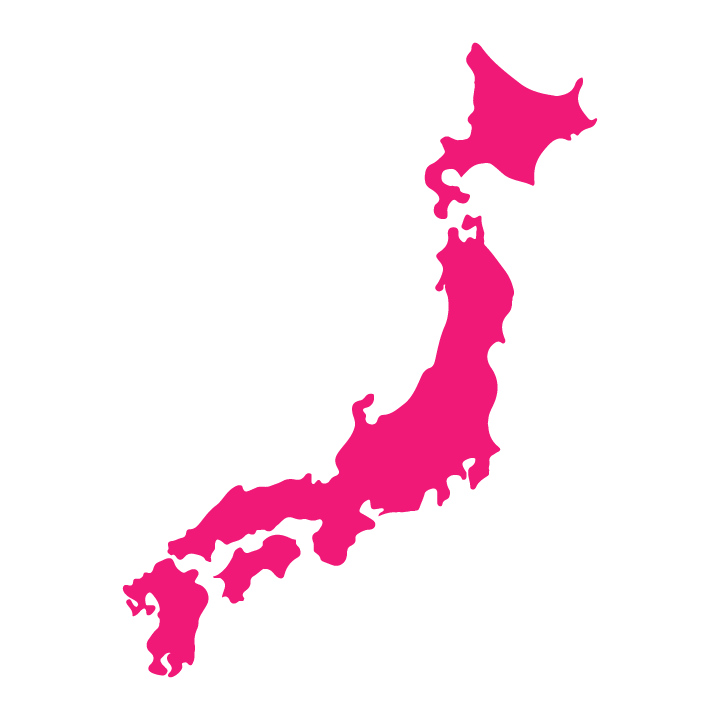
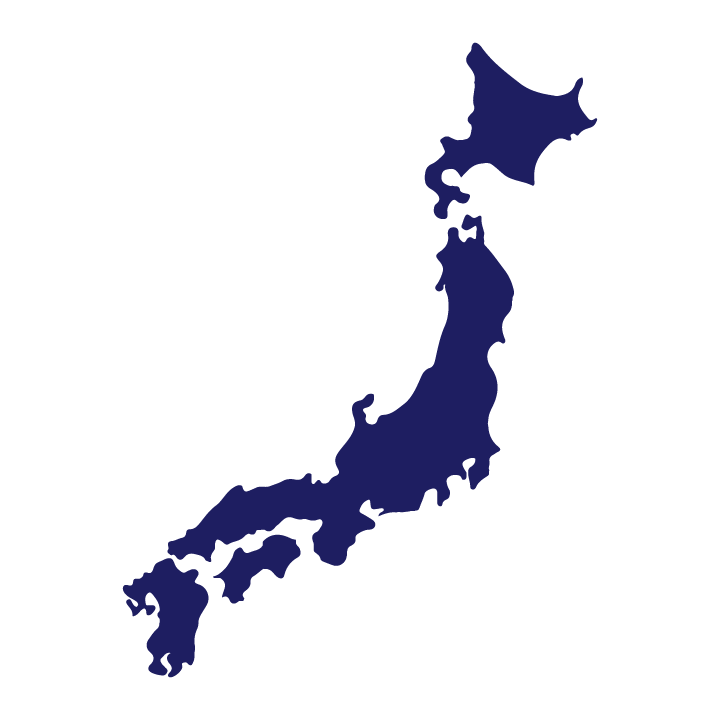
added colours and shop by region map animations

Changed region(s): [[0.1528, 0.0611, 0.825, 0.9472]]

diff --git a/src/components/sections/ShopByRegion.client.jsx b/src/components/sections/ShopByRegion.client.jsx
@@ -8,10 +8,10 @@ export function ShopByRegion() {
     // <Section>
     <section className="flex flex-col gap-8 md:flex-row">
       <div className="md:w-1/2 flex flex-col justify-center">
-        <h2 className="text-center text-xl font-bold mb-8 md:text-4xl md:mb-12">
+        <h2 className="text-center text-xl text-garden-cream font-bold mb-8 md:text-4xl md:mb-12">
           Shop by Region
         </h2>
-        <p className="text-sm leading-7 mb-4">
+        <p className="text-sm text-garden-cream leading-7 mb-4">
           Japan is made up of four main islands and over 6,800 smaller islands.
           The four main islands are Hokkaido, Honshu, Shikoku, and Kyushu. Each
           of these islands has its own distinct regions and prefectures, which
@@ -19,46 +19,48 @@ export function ShopByRegion() {
           include Tokyo, which is the capital and largest city, as well as other
           major cities like Osaka and Yokohama.
         </p>
-        <p className="text-sm leading-7 mb-4">
+        <p className="text-sm text-garden-cream leading-7 mb-4">
           Click on the map to shop by region.
         </p>
       </div>
-      <div className="relative shrink-0 md:w-1/2 flex align-middle">
-        <Image
-          className="cursor-pointer w-full"
-          src={map}
-          height={720}
-          width={720}
-          alt="interactive map of Japan"
-        />
-        <Link to="/regions/hokkaido">
-          <div className=" group cursor-pointer rounded-full bg-blue-400 w-3 h-3 absolute top-[16%] left-[69%] hover:bg-white">
-            <span className="absolute -top-1 left-[1.125rem] text-sm font-bold invisible group-hover:visible">
-              Hokkaido
-            </span>
-          </div>
-        </Link>
-        <Link to="/regions/gifu">
-          <div className=" group cursor-pointer rounded-full bg-blue-400 w-3 h-3 absolute top-[62.5%] left-[49%] hover:bg-white">
-            <span className="absolute -top-1 left-[1.125rem] text-sm font-bold invisible group-hover:visible">
-              Gifu
-            </span>
-          </div>
-        </Link>
-        <Link to="/regions/hiroshima">
-          <div className=" group cursor-pointer rounded-full bg-blue-400 w-3 h-3 absolute top-[72%] left-[28.5%] hover:bg-white">
-            <span className="absolute -top-1 left-[1.125rem] text-sm font-bold invisible group-hover:visible">
-              Hiroshima
-            </span>
-          </div>
-        </Link>
-        <Link to="/regions/aomori">
-          <div className=" group cursor-pointer rounded-full bg-blue-400 w-3 h-3 absolute top-[33%] left-[63%] hover:bg-white">
-            <span className="absolute -top-1 left-[1.125rem] text-sm font-bold invisible group-hover:visible">
-              Aomori
-            </span>
-          </div>
-        </Link>
+      <div className="shrink-0 md:w-1/2 flex flex-col justify-center">
+        <div className="relative">
+          <Image
+            className="w-full object-contain"
+            src={map}
+            height={720}
+            width={720}
+            alt="interactive map of Japan"
+          />
+          <Link to="/regions/hokkaido">
+            <div className=" group cursor-pointer rounded-full bg-garden-rose w-3 h-3 absolute top-[16%] left-[69%] hover:bg-garden-cream ease-in-out duration-200">
+              <span className="absolute -top-1 left-[1.125rem] text-sm text-garden-cream font-bold invisible opacity-0 -translate-x-1/4 group-hover:visible group-hover:opacity-100  group-hover:translate-x-0 duration-300 ">
+                Hokkaido
+              </span>
+            </div>
+          </Link>
+          <Link to="/regions/gifu">
+            <div className=" group cursor-pointer rounded-full bg-garden-rose w-3 h-3 absolute top-[62.5%] left-[49%] hover:bg-garden-cream ease-in-out duration-200">
+              <span className="absolute -top-1 left-[1.125rem] text-sm  text-garden-cream font-bold invisible opacity-0 -translate-x-1/4 group-hover:visible group-hover:opacity-100  group-hover:translate-x-0 duration-300 ">
+                Gifu
+              </span>
+            </div>
+          </Link>
+          <Link to="/regions/hiroshima">
+            <div className=" group cursor-pointer rounded-full bg-garden-rose w-3 h-3 absolute top-[72%] left-[28.5%] hover:bg-garden-cream ease-in-out duration-200">
+              <span className="absolute -top-1 left-[1.125rem] text-sm text-garden-cream font-bold invisible opacity-0 -translate-x-1/4 group-hover:visible group-hover:opacity-100  group-hover:translate-x-0 duration-300 ">
+                Hiroshima
+              </span>
+            </div>
+          </Link>
+          <Link to="/regions/aomori">
+            <div className=" group cursor-pointer rounded-full bg-garden-rose w-3 h-3 absolute top-[33%] left-[63%] hover:bg-garden-cream ease-in-out duration-200">
+              <span className="absolute -top-1 left-[1.125rem] text-sm text-garden-cream font-bold invisible opacity-0 -translate-x-1/4 group-hover:visible group-hover:opacity-100  group-hover:translate-x-0 duration-300 ">
+                Aomori
+              </span>
+            </div>
+          </Link>
+        </div>
       </div>
     </section>
     // </Section>

diff --git a/src/routes/index.server.jsx b/src/routes/index.server.jsx
@@ -25,7 +25,7 @@ export default function Homepage() {
   return (
     <Layout>
       <Section>
-        <h1 className="text-center h-[50vh]">HERO</h1>
+        <h1 className="text-center h-screen">HERO</h1>
         <Suspense>
           <SeoForHomepage />
         </Suspense>
@@ -54,16 +54,39 @@ function HomepageContent() {
 
   return (
     <>
-      <Section>
-        <ShopByRegion />
+      <Section className="bg-garden-teal min-h-screen">
+        <ShopByRegion className="max-w-[1280px]" />
       </Section>
-      <Section>
+      <Section className="bg-garden-cream min-h-screen flex items-center">
         <FeaturedProducts products={products.nodes} />
+      </Section>
+      <Section className="bg-blue-300 min-h-[720px]">
+        <HomepageAbout />
       </Section>
       {/* <FeaturedCollections
         data={featuredCollections.nodes}
         title="Collections"
       /> */}
+    </>
+  );
+}
+
+function HomepageAbout() {
+  return (
+    <>
+      <div className="md:flex justify-between w-full h-screen">
+        <div>
+          <h3>WHY DIGITAL GARDEN</h3>
+        </div>
+        <div>
+          <div className="md:sticky top-40">
+            <span>TEST</span>
+          </div>
+        </div>
+        <div>
+          <h3>MORE ABOUT US</h3>
+        </div>
+      </div>
     </>
   );
 }
@@ -91,7 +114,7 @@ function SeoForHomepage() {
   );
 }
 
-// GRAPHQL QUERIES
+// ABOUT GRAPHQL QUERIES
 // gql is a utility that adds syntax highlighting to GraphQL queries
 // following is {operation type} {operation name}
 // operation type is any of the following:

diff --git a/src/components/sections/FeaturedProducts.client.jsx b/src/components/sections/FeaturedProducts.client.jsx
@@ -3,7 +3,7 @@ import {FeaturedProductCard} from '../index';
 
 export function FeaturedProducts({products}) {
   return (
-    <>
+    <section className="align-middle">
       <h2 className="text-center text-xl font-bold mb-8 md:text-4xl md:mb-12">
         Featured Products
       </h2>
@@ -13,18 +13,18 @@ export function FeaturedProducts({products}) {
             <FeaturedProductCard product={product} key={product.id} />
           ))}
         </div>
-        <div className="flex justify-end min-w-[18%] items-center">
+        <div className="flex justify-center items-end md:justify-end md:min-w-[18%] md:items-center">
           <Link
             className="relative group overflow-hidden rounded-full box-content border-2 border-blue-300 h-24 w-24 border-1  mb-24 lg:h-32 lg:w-32 "
             to="/products"
           >
             <div className="bg-blue-300 rounded-full w-full h-full flex justify-center items-center transition ease-in-out -translate-x-full group-hover:translate-x-0 duration-500"></div>
-            <span className="absolute top-1/2 left-1/2 -translate-y-1/2 -translate-x-1/2 text-xs font-bold text-blue-300 group-hover:text-white transition ease-in-out duration-500">
+            <span className="absolute w-full text-center top-1/2 left-1/2 -translate-y-1/2 -translate-x-1/2 text-xs font-bold text-blue-300 group-hover:text-white transition ease-in-out duration-500">
               VIEW ALL
             </span>
           </Link>
         </div>
       </div>
-    </>
+    </section>
   );
 }

diff --git a/src/styles/index.css b/src/styles/index.css
@@ -5,7 +5,7 @@
 /* Tokens */
 :root {
   --color-primary: 20 20 20; /* Text, buttons, etc. */
-  --color-contrast: 250 250 249; /* Backgrounds, borders, etc. */
+  --color-contrast: 254 249 244; /* Backgrounds, borders, etc. */
   --color-accent: 191 72 0; /* Labels like "On sale" */
   --font-size-fine: 0.75rem; /* text-xs */
   --font-size-copy: 1rem; /* text-base */
@@ -34,13 +34,13 @@
   }
 }
 
-@media (prefers-color-scheme: dark) {
+/* @media (prefers-color-scheme: dark) {
   :root {
     --color-primary: 250 250 250;
     --color-contrast: 32 33 36;
     --color-accent: 235 86 40;
   }
-}
+} */
 
 @keyframes fadeInAnimation {
   0% {

diff --git a/src/components/global/Header.client.jsx b/src/components/global/Header.client.jsx
@@ -135,11 +135,11 @@ function DesktopHeader({countryCode, isHome, menu, openCart}) {
 
   return (
     <header role="banner" className={styles.container}>
-      <Link className={`font-bold mr-10`} to="/">
+      <Link className={`font-bold mr-10 min-w-[285px]`} to="/">
         <Image
           src={logo}
-          width={120}
-          height={50}
+          width={140}
+          height={60}
           alt="digital garden header logo"
         />
       </Link>

diff --git a/tailwind.config.js b/tailwind.config.js
@@ -19,6 +19,11 @@ module.exports = {
         contrast: withOpacityValue('--color-contrast'),
         notice: withOpacityValue('--color-accent'),
         shopPay: 'var(--color-shop-pay)',
+        'garden-indigo': '#1E1E61',
+        'garden-teal': '#67BBBF',
+        'garden-rose': '#F2BAC9',
+        'garden-yellow': '#F2C90B',
+        'garden-cream': '#FEF9F4',
       },
       // 512px, 768px, 1024px, 1280px, 1536px
       screens: {
